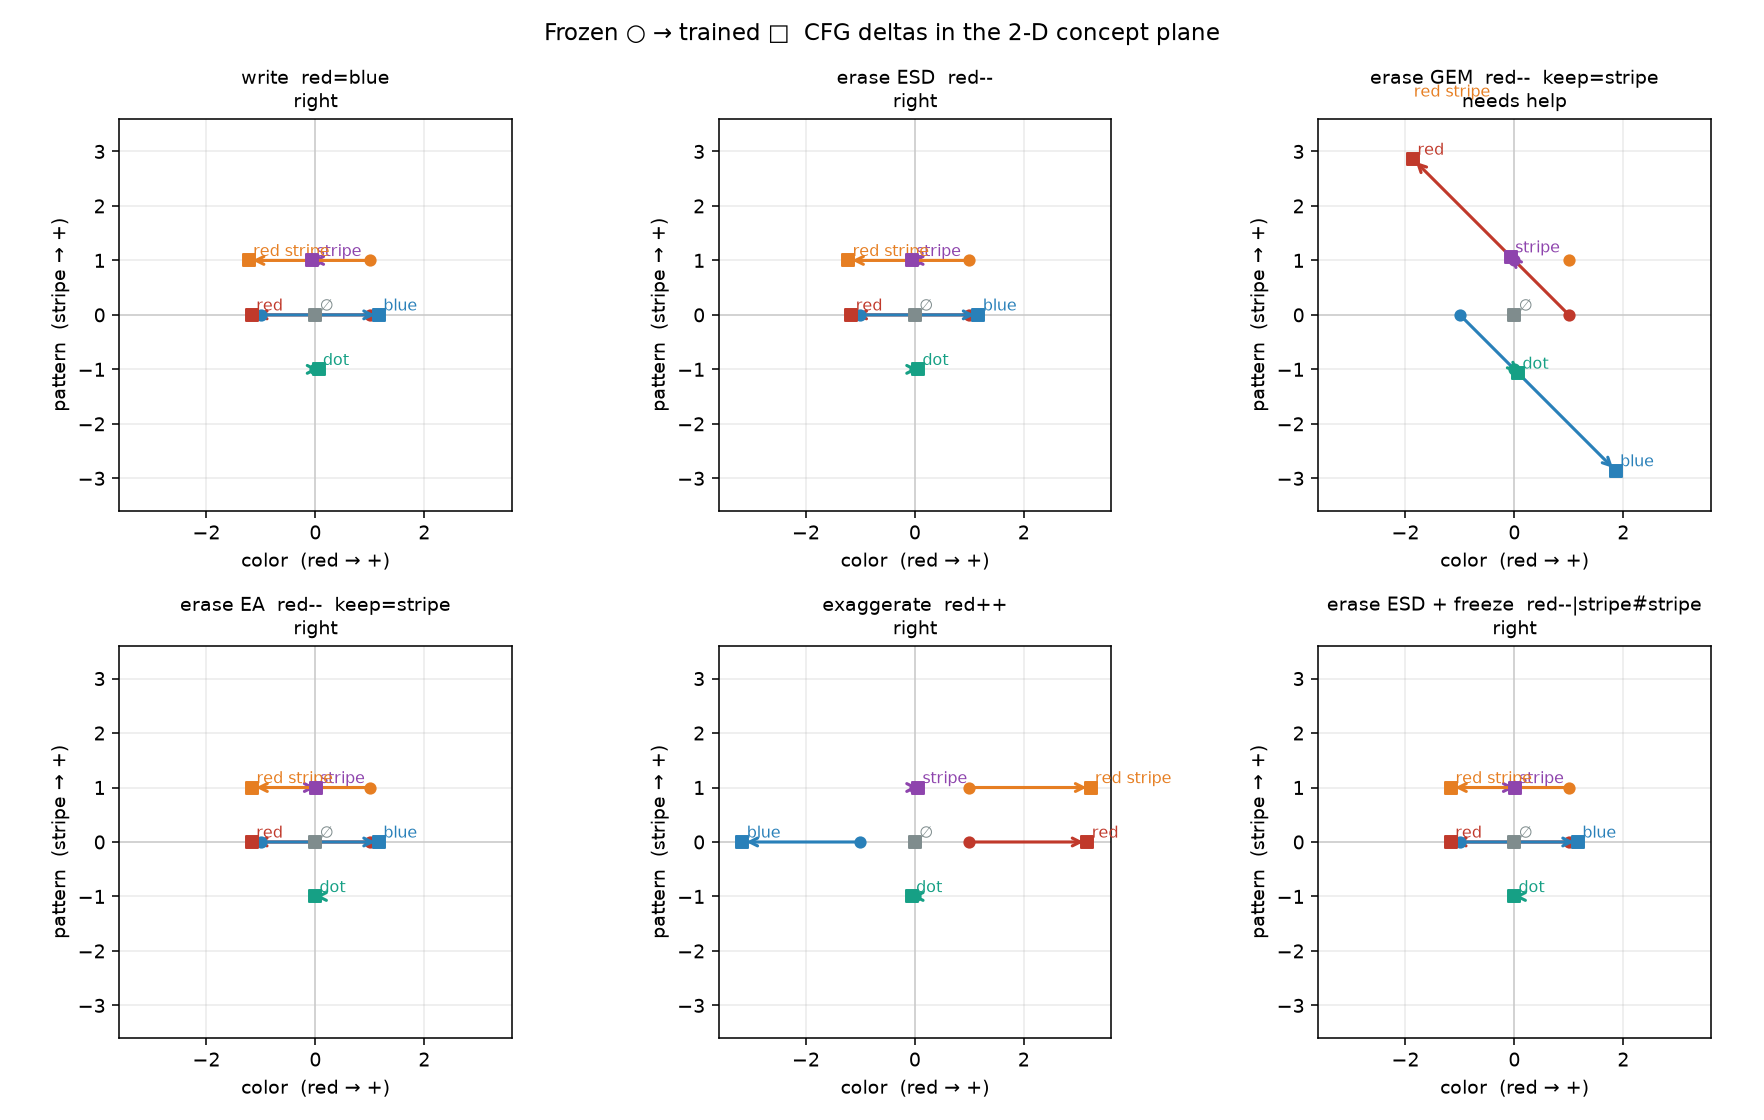
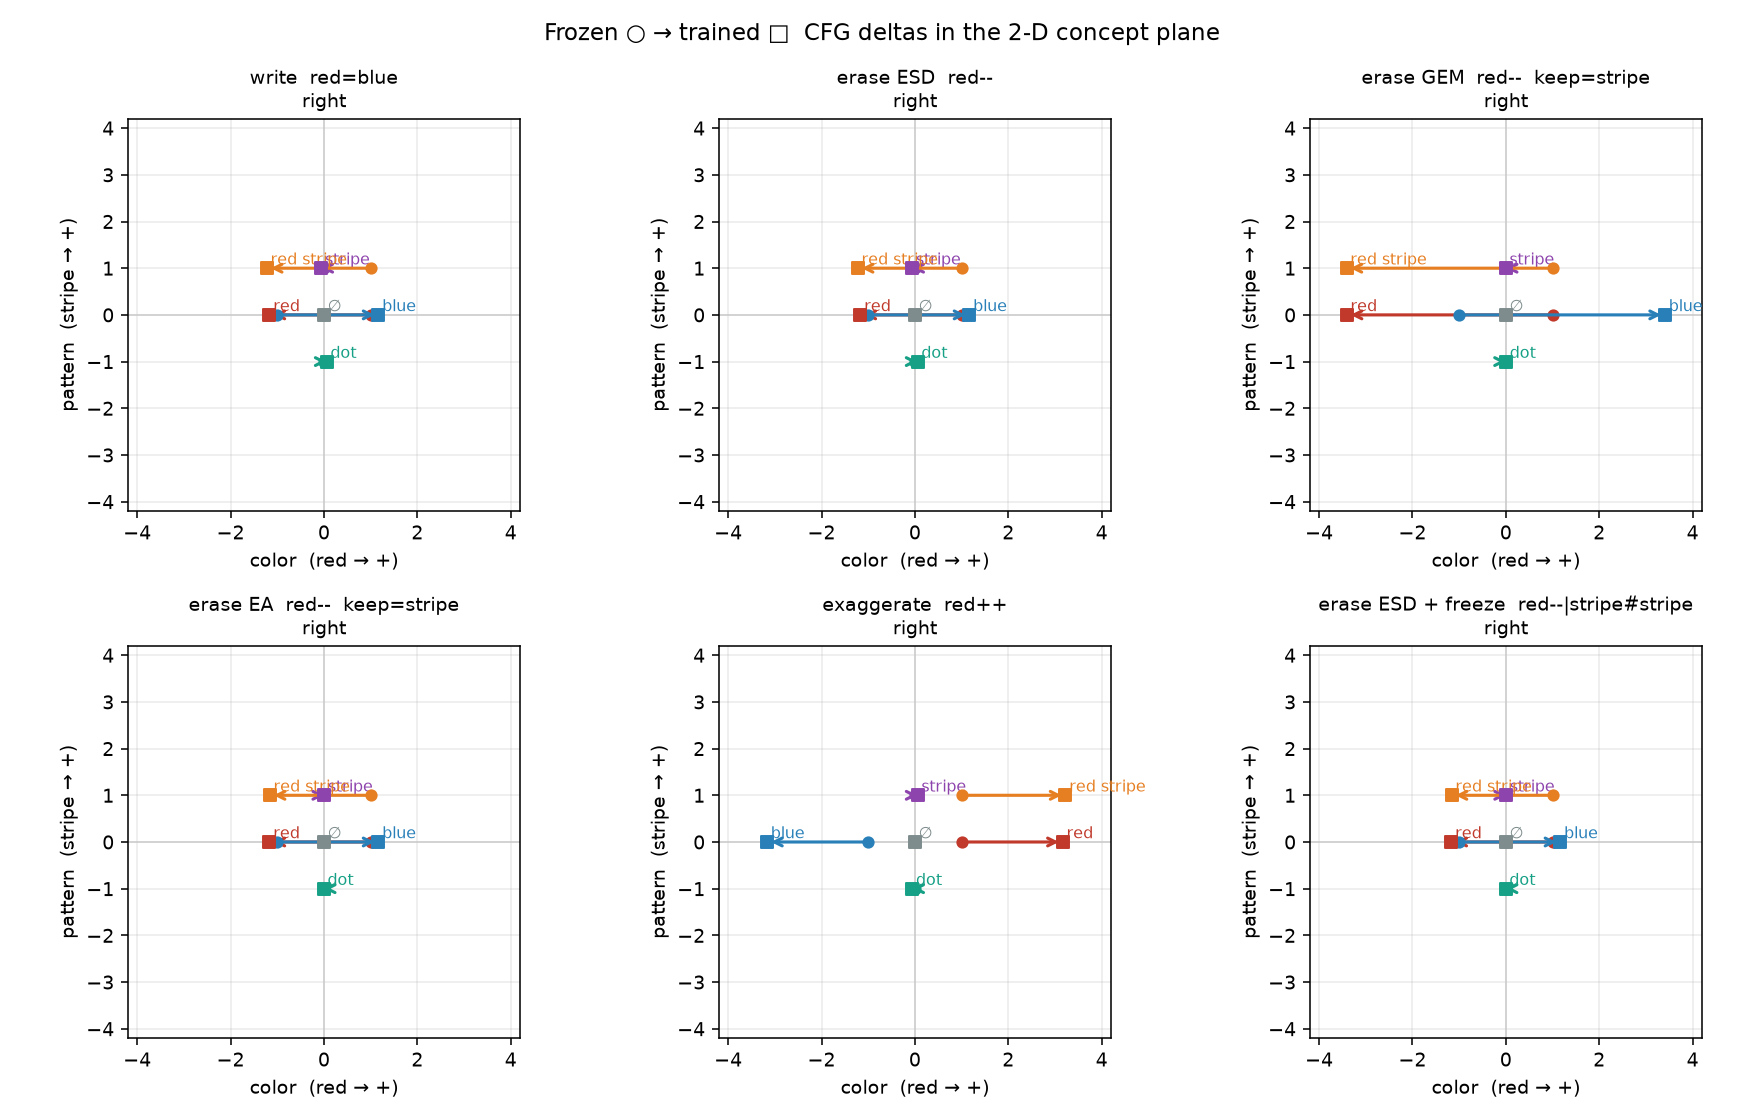
Fix GEM hook: attract to the safe field, not the keep concept.
The 2-D suite showed GEM converting red into stripe (leak +2.86) because
erase_keep was used as the paper's safe anchor ĉ. Grebe et al. Eq. 13–14
want a harmless rewording of the erase prompt (ESD reverse-CFG here).
Keep is a retain term only. Still not a full GEM port.

diff --git a/conceptmod/ops_erase.py b/conceptmod/ops_erase.py
@@ -14,10 +14,13 @@ Modes
     ``ops.rule_loss``.
 
 ``gem``
-    GEM-inspired (Grebe et al., ICML'26, arXiv:2606.00140): contrastive
-    velocity matching. Attract the trained erase-prompt velocity toward a
-    frozen *keep* / unconditional field; repel it from the frozen erase
-    field. ``L = relu(||v_t(c) - v_f(keep)|| - η ||v_t(c) - v_f(c)||)``.
+    GEM-inspired (Grebe et al., ICML'26, arXiv:2606.00140, Eqs. 13–14):
+    contrastive velocity matching. Attract the trained erase-prompt
+    velocity toward a *safe* field and repel it from the frozen erase
+    field. ``L = relu(||v_t(c) - v_safe|| - η ||v_t(c) - v_f(c)||)``.
+    Paper ``ĉ`` is a harmless rewording of ``c``, not an orthogonal keep
+    concept — this hook builds ``v_safe`` with ESD reverse-CFG
+    (paper Eq. 2 / uncond). ``erase_keep`` is a retain term only.
     Not a full GEM port: no multi-timestep trajectory window, no LoRA-on-
     Flux dual-stream Q/K.
 
@@ -95,17 +98,44 @@ def _l2(a: torch.Tensor, b: torch.Tensor) -> torch.Tensor:
 
 
 def gem_loss(rule: dsl.Rule, ctx: ops.StepContext) -> torch.Tensor:
-    """GEM-inspired hinge: attract to keep/uncond, repel from erase."""
+    """GEM hinge (paper Eq. 14): attract to a *safe* field, repel from erase.
+
+    Grebe et al. ICML'26 Eqs. 13–14:
+
+        d_pos = ||v_t(c) − v_f(ĉ)||     # pull toward the teacher's safe anchor
+        d_neg = ||v_t(c) − v_f(c)||     # push off the teacher's erase field
+        L     = relu(d_pos − η d_neg)
+
+    ``ĉ`` is a harmless rewording of the erase prompt (or ESD reverse-CFG
+    when no explicit anchor exists — paper Eq. 2). It is **not** an
+    orthogonal keep concept. The previous hook used ``erase_keep`` as
+    ``ĉ``, which converted the erase prompt into the keep concept on the
+    2-D fixture (leak ≈ +2.86). Keep, if set, is a retain MSE only —
+    same role as EA / ``#``.
+
+    Still missing vs the paper: the ``t ∈ {0..t_stop}`` trajectory window
+    and LoRA on Flux dual-stream Q/K. This is the smallest velocity-space
+    hinge that is geometrically an erase, not a convert-to-keep.
+    """
     eta = getattr(ctx.cfg, "gem_eta", None)
     if eta is None:
-        eta = rule.options.get("guidance", _GEM_ETA)
+        eta = rule.options.get("eta", _GEM_ETA)
     eta = float(eta)
+    g = rule.options.get("guidance", ctx.cfg.erase_guidance)
     c = formatted_erase_prompt(rule, ctx)
-    keep = getattr(ctx.cfg, "erase_keep", "") or ""
     vt = ctx.v(c, c, frozen=False, grad=True)
-    v_safe = ctx.v(keep, c, frozen=True)
-    v_unsafe = ctx.v(c, c, frozen=True)
-    return F.relu(_l2(vt, v_safe) - eta * _l2(vt, v_unsafe))
+    v0 = ctx.v("", c, frozen=True)
+    vc = ctx.v(c, c, frozen=True)
+    # Safe attractor = ESD reverse-CFG of uncond, never v(keep).
+    v_safe = esd_target(v0, vc, float(g))
+    loss = F.relu(_l2(vt, v_safe) - eta * _l2(vt, vc))
+    keep = getattr(ctx.cfg, "erase_keep", "") or ""
+    if keep:
+        lam = float(getattr(ctx.cfg, "erase_retain", _EA_RETAIN))
+        vf = ctx.v(keep, keep, frozen=True)
+        vk = ctx.v(keep, keep, frozen=False, grad=True)
+        loss = loss + lam * F.mse_loss(vk, vf)
+    return loss
 
 
 def ea_loss(rule: dsl.Rule, ctx: ops.StepContext) -> torch.Tensor:

diff --git a/conceptmod/analysis_2d.py b/conceptmod/analysis_2d.py
@@ -371,19 +371,20 @@ def _verdict_for(name: str, before: ProbeSnapshot, after: ProbeSnapshot) -> tupl
         return "needs help", "Protected erase failed to move red."
 
     if name == "erase_gem":
-        # GEM attract-to-keep is a different target than ESD's flip.
         pulled_to_keep = after.pattern_on_red > 0.4 and after.color_on_red < 0.6
         if pulled_to_keep:
             return "needs help", (
-                "GEM hinge attracts v(red) toward v(stripe), so the erase "
-                "prompt becomes the keep concept. The hook is too thin "
-                "(no trajectory window, no dual-stream Q/K) and the keep "
-                "prompt is the wrong attractor for a 2-D erase."
+                "GEM still converts red into stripe — the safe attractor "
+                "is wrong (keep must not be ĉ)."
             )
-        if after.color_on_red < 0.2 and keep_ok:
+        if after.color_on_red < 0.2 and keep_ok and not leak_on_red:
             return "right", (
-                "GEM reduced the red probe without stealing the stripe axis."
+                "GEM hinge attracts toward the ESD safe field (uncond "
+                "reverse-CFG), not toward stripe. Keep is a retain term. "
+                "Erase-axis drops; stripe hold stays high."
             )
+        if after.color_on_red < 0.2:
+            return "needs help", "GEM erased red but leaked onto the keep axis."
         return "needs help", (
             "GEM did not produce a clean erase; the contrastive hinge is "
             "under-specified for this field."
@@ -501,7 +502,7 @@ def plot_quiver(results: list[MethodResult], path: Path) -> None:
         ax.set_ylabel("pattern  (stripe → +)")
         badge = "right" if result.verdict == "right" else "needs help"
         ax.set_title(f"{METHOD_TITLES[result.name]}\n{badge}", fontsize=10)
-        lim = 3.6
+        lim = 4.2
         ax.set_xlim(-lim, lim)
         ax.set_ylim(-lim, lim)
         ax.grid(True, alpha=0.25)

diff --git a/tests/test_2d_analysis.py b/tests/test_2d_analysis.py
@@ -133,11 +133,14 @@ def test_esd_plus_freeze_matches_ea_keep():
     assert abs(freeze.after.pattern_on_red) < 0.25
 
 
-def test_gem_attracts_erase_toward_keep():
-    """The GEM hook is the wrong attractor on this field (needs help)."""
+def test_gem_erases_red_without_becoming_stripe():
+    """GEM must drop the erase axis and not convert red into stripe."""
     result = run_method("erase_gem", f"{COLOR}--", erase_mode="gem")
-    assert result.verdict == "needs help"
-    assert result.after.pattern_on_red > 0.4
+    assert result.verdict == "right"
+    assert result.after.color_on_red < 0.2
+    assert result.before.color_on_red - result.after.color_on_red > 0.5
+    assert result.after.stripe_hold > 0.85
+    assert abs(result.after.pattern_on_red) < 0.25
 
 
 def test_suite_verdicts_and_budget():
@@ -148,5 +151,5 @@ def test_suite_verdicts_and_budget():
     assert by_name["erase_ea"].verdict == "right"
     assert by_name["exaggerate"].verdict == "right"
     assert by_name["erase_esd_freeze"].verdict == "right"
-    assert by_name["erase_gem"].verdict == "needs help"
+    assert by_name["erase_gem"].verdict == "right"
     assert sum(r.elapsed_s for r in results) < 30.0

diff --git a/tests/test_erase_cpu.py b/tests/test_erase_cpu.py
@@ -168,9 +168,10 @@ def test_ea_retain_is_esd_plus_keep_anchor(bare_templates):
 
 
 def test_gem_contrastive_reduces_erase_probe(bare_templates):
-    """GEM hinge attracts toward the keep/uncond field, repels erase.
+    """GEM hinge attracts toward the ESD safe field, repels erase.
 
-    Not a full GEM port (no trajectory window). Default η = 1.
+    ``erase_keep`` is a retain, not the attractor (paper ĉ is a harmless
+    rewording of c). Not a full GEM port (no trajectory window). η = 1.
     """
     backend = TwoConceptVelocity()
     z, t = _probe_z(backend)

diff --git a/docs/2d-analysis.md b/docs/2d-analysis.md
@@ -16,14 +16,16 @@ No GPU, no Hub, no 20B train. Plots live in
 |---|---|---|---|
 | write `=` | `red=blue` | **right** | Red CFG flips onto frozen blue. Stripe hold stays ~1. |
 | erase ESD | `red--` (live `rule_loss`) | **right** | Same target as write at guidance 1 (`−CFG(red) = CFG(blue)`). Stripe holds. |
-| erase GEM | `red--` + keep=`stripe` | **needs help** | Hinge attracts `v(red)` toward `v(stripe)`. Red picks up a large pattern component (`leak ≈ +2.86`). The keep *prompt* barely moves; the erase prompt *becomes* the keep concept. |
+| erase GEM | `red--` + keep=`stripe` | **right** | Hinge attracts toward the ESD safe field (uncond reverse-CFG), not toward stripe. Leak `+2.86 → +0.00`. Stripe hold 1.000. Overshoots the color axis (hinge has no restoring force past the Voronoi cell). |
 | erase EA | `red--` + keep=`stripe` | **right** | ESD plus a retain MSE on stripe. Red erases; stripe hold is 1.000 (a hair cleaner than ESD). |
 | exaggerate `++` | `red++` | **right** | Classic (no random-probe) `++` stretches color from +1 to ~+3. Stripe holds. |
 | ESD + freeze `#` | `red--\|stripe#stripe` | **right** | Live-DSL way to pin the keep axis. Same keep geometry as the EA hook. |
 
-GEM / EA **do not help vs ESD on this fixture**. ESD is already clean on
-the keep axis. EA is a redundant retain (you can write the same thing as
-`#`). GEM is actively wrong: the keep prompt is the wrong attractor.
+GEM is **no-longer-wrong**. It does **not** help vs ESD on this fixture:
+ESD was already clean on the keep axis, and GEM's extra color overshoot
+(`-3.41` vs ESD `-1.17`) is the hinge coasting, not a better erase. EA /
+`#` remain the retain. A real GEM port still needs the trajectory window
+and dual-stream Q/K.
 
 ![quiver](../outputs/2d_analysis/quiver.png)
 
@@ -31,7 +33,7 @@ the keep axis. EA is a redundant retain (you can write the same thing as
 
 ![trajectories](../outputs/2d_analysis/trajectories.png)
 
-*Left: target probe. Middle: keep-prompt probe. Right: pattern component of `red` — this is where GEM leaks.*
+*Left: target probe. Middle: keep-prompt probe. Right: pattern component of `red` — GEM's convert-to-keep used to show up here; it is now flat.*
 
 ![table](../outputs/2d_analysis/table.png)
 
@@ -76,9 +78,10 @@ already start orthogonal, so the loss is ~0).
 
 ## What is right, and what is a side effect
 
-**Write, ESD, `++`, EA, ESD+`#`** all move only the color column of the
-linear map. Stripe's own CFG stays on `e_y`. That is the geometrically
-right 2-D story, and it is what the 1-D cosine check could not see.
+**Write, ESD, `++`, EA, ESD+`#`, GEM** all move only the color column of
+the linear map. Stripe's own CFG stays on `e_y`. That is the
+geometrically right 2-D story, and it is what the 1-D cosine check could
+not see.
 
 Two caveats the pictures make obvious:
 
@@ -93,40 +96,54 @@ Two caveats the pictures make obvious:
 
 2. **ESD g=1 is write-to-opposite.** The ESD target
    `v* = v('') − (v(red) − v(''))` is exactly `CFG(blue)` when blue is
-   `−red`. The two methods produce the same numbers here. That is correct
+   `−red`. Write and ESD produce the same numbers here. That is correct
    ESD geometry, not a wiring mistake.
 
 ## GEM vs ESD vs EA
 
-`ops_erase.gem_loss` is a hinge
+Grebe et al. (ICML'26, [arXiv:2606.00140](https://arxiv.org/abs/2606.00140)
+Eqs. 13–14) define
 
 ```
-relu( ||v_t(red) − v_f(keep)|| − η ||v_t(red) − v_f(red)|| )
+d_pos = ||v_t(c) − v_f(ĉ)||     # attract to the teacher's *safe* anchor
+d_neg = ||v_t(c) − v_f(c)||     # repel from the teacher's erase field
+L     = relu(d_pos − η d_neg)
 ```
 
-With `keep=stripe` it is satisfied as soon as trained red is closer to
-*stripe* than to frozen red. It does not require reaching uncond, and it
-does not flip the concept. On this field red ends at about `(-1.86, +2.86)`:
-past the color origin and deep into the pattern half-plane. Stripe's own
-probe only drifts from 1.00 to 1.07 — a 1-D keep-probe would call that
-"preserved" while the erase prompt has become a stripe.
+Paper `ĉ` is a harmless rewording of `c` (or ESD reverse-CFG when no
+explicit anchor exists — their Eq. 2). It is **not** an orthogonal keep
+concept. The first hook used `erase_keep` as `ĉ`, so with
+`keep=stripe` the hinge was satisfied as soon as trained red was closer
+to *stripe* than to frozen red. Red ended at about `(-1.86, +2.86)`:
+convert-to-keep. Stripe's own probe only drifted 1.00 → 1.07 — a 1-D
+keep-probe would have called that "preserved."
+
+The hook now builds `v_safe` with ESD reverse-CFG of uncond and treats
+`erase_keep` as a retain MSE (same role as EA / `#`). On this field:
+
+| | leak `⟨CFG(red), e_y⟩` | stripe hold | color on red |
+|---|---|---|---|
+| GEM before (keep as `ĉ`) | **+2.860** | +0.998 | −1.860 |
+| GEM after (uncond/ESD `ĉ`) | **+0.000** | +1.000 | −3.409 |
+| ESD | +0.000 | +0.998 | −1.167 |
+
+GEM is geometrically an erase again. It does not beat ESD: the keep axis
+was already clean, and the extra color travel is the hinge going slack
+once `d_pos < η d_neg` (no restoring force to the exact target). Still
+missing vs the paper: the `t ∈ {0..t_stop}` trajectory window and LoRA
+on Flux dual-stream Q/K.
 
 `ops_erase.ea_loss` is ESD plus `mse(v_t(stripe), v_f(stripe))`. That
-retain is the right *idea*, and it is already how `#` works. On this
-LoRA (small `A` init, unused pattern column) ESD barely leaks, so EA
-cannot show a save. The hook is too thin to matter: velocity-only, no
-attention regularizer, no bi-level LoRA, no `D_ir`.
+retain is the right *idea*, and it is already how `#` works.
 
 The 1-D `test_erase_cpu` fixture still passes for GEM because its
-residual is prompt-gated: GEM can move `delta_e` without ever touching
-`delta_k`. The 2-D field is what reveals the wrong attractor.
+residual is prompt-gated. The 2-D field is what caught the wrong
+attractor and now gates that it stays fixed.
 
-## What to change next
+## What is still missing / next
 
-- **GEM:** attract toward uncond (or the ESD negatively-guided target),
-  not toward `v(keep)`. Keep should be a *retain* term, the way EA / `#`
-  already do it. A real GEM port still needs the trajectory window and
-  dual-stream Q/K; this hinge is not that paper.
+- **GEM paper port:** trajectory window and dual-stream Q/K. Do not
+  advertise this hinge as GEM-the-paper.
 - **EA:** leave the hook, or delete it and tell people to write
   `c--|keep#keep`. Wiring `--erase-mode` is still optional; the live
   default should stay ESD.
@@ -135,6 +152,4 @@ residual is prompt-gated: GEM can move `delta_e` without ever touching
   `TwoConceptVelocity`) instead of a linear map of antipodes.
 - **Leak stress test:** raise `A`'s init (or put LoRA on a shared
   `linear1`) if you want ESD to leak on purpose. Standard PEFT init
-  (`B = 0`, small `A`) does **not** wreck the keep axis here — the
-  hypothesis that "cosine can hide a wrecked keep axis" is true for GEM,
-  not for ESD / write / `++` on this LoRA.
+  (`B = 0`, small `A`) does **not** wreck the keep axis here.
